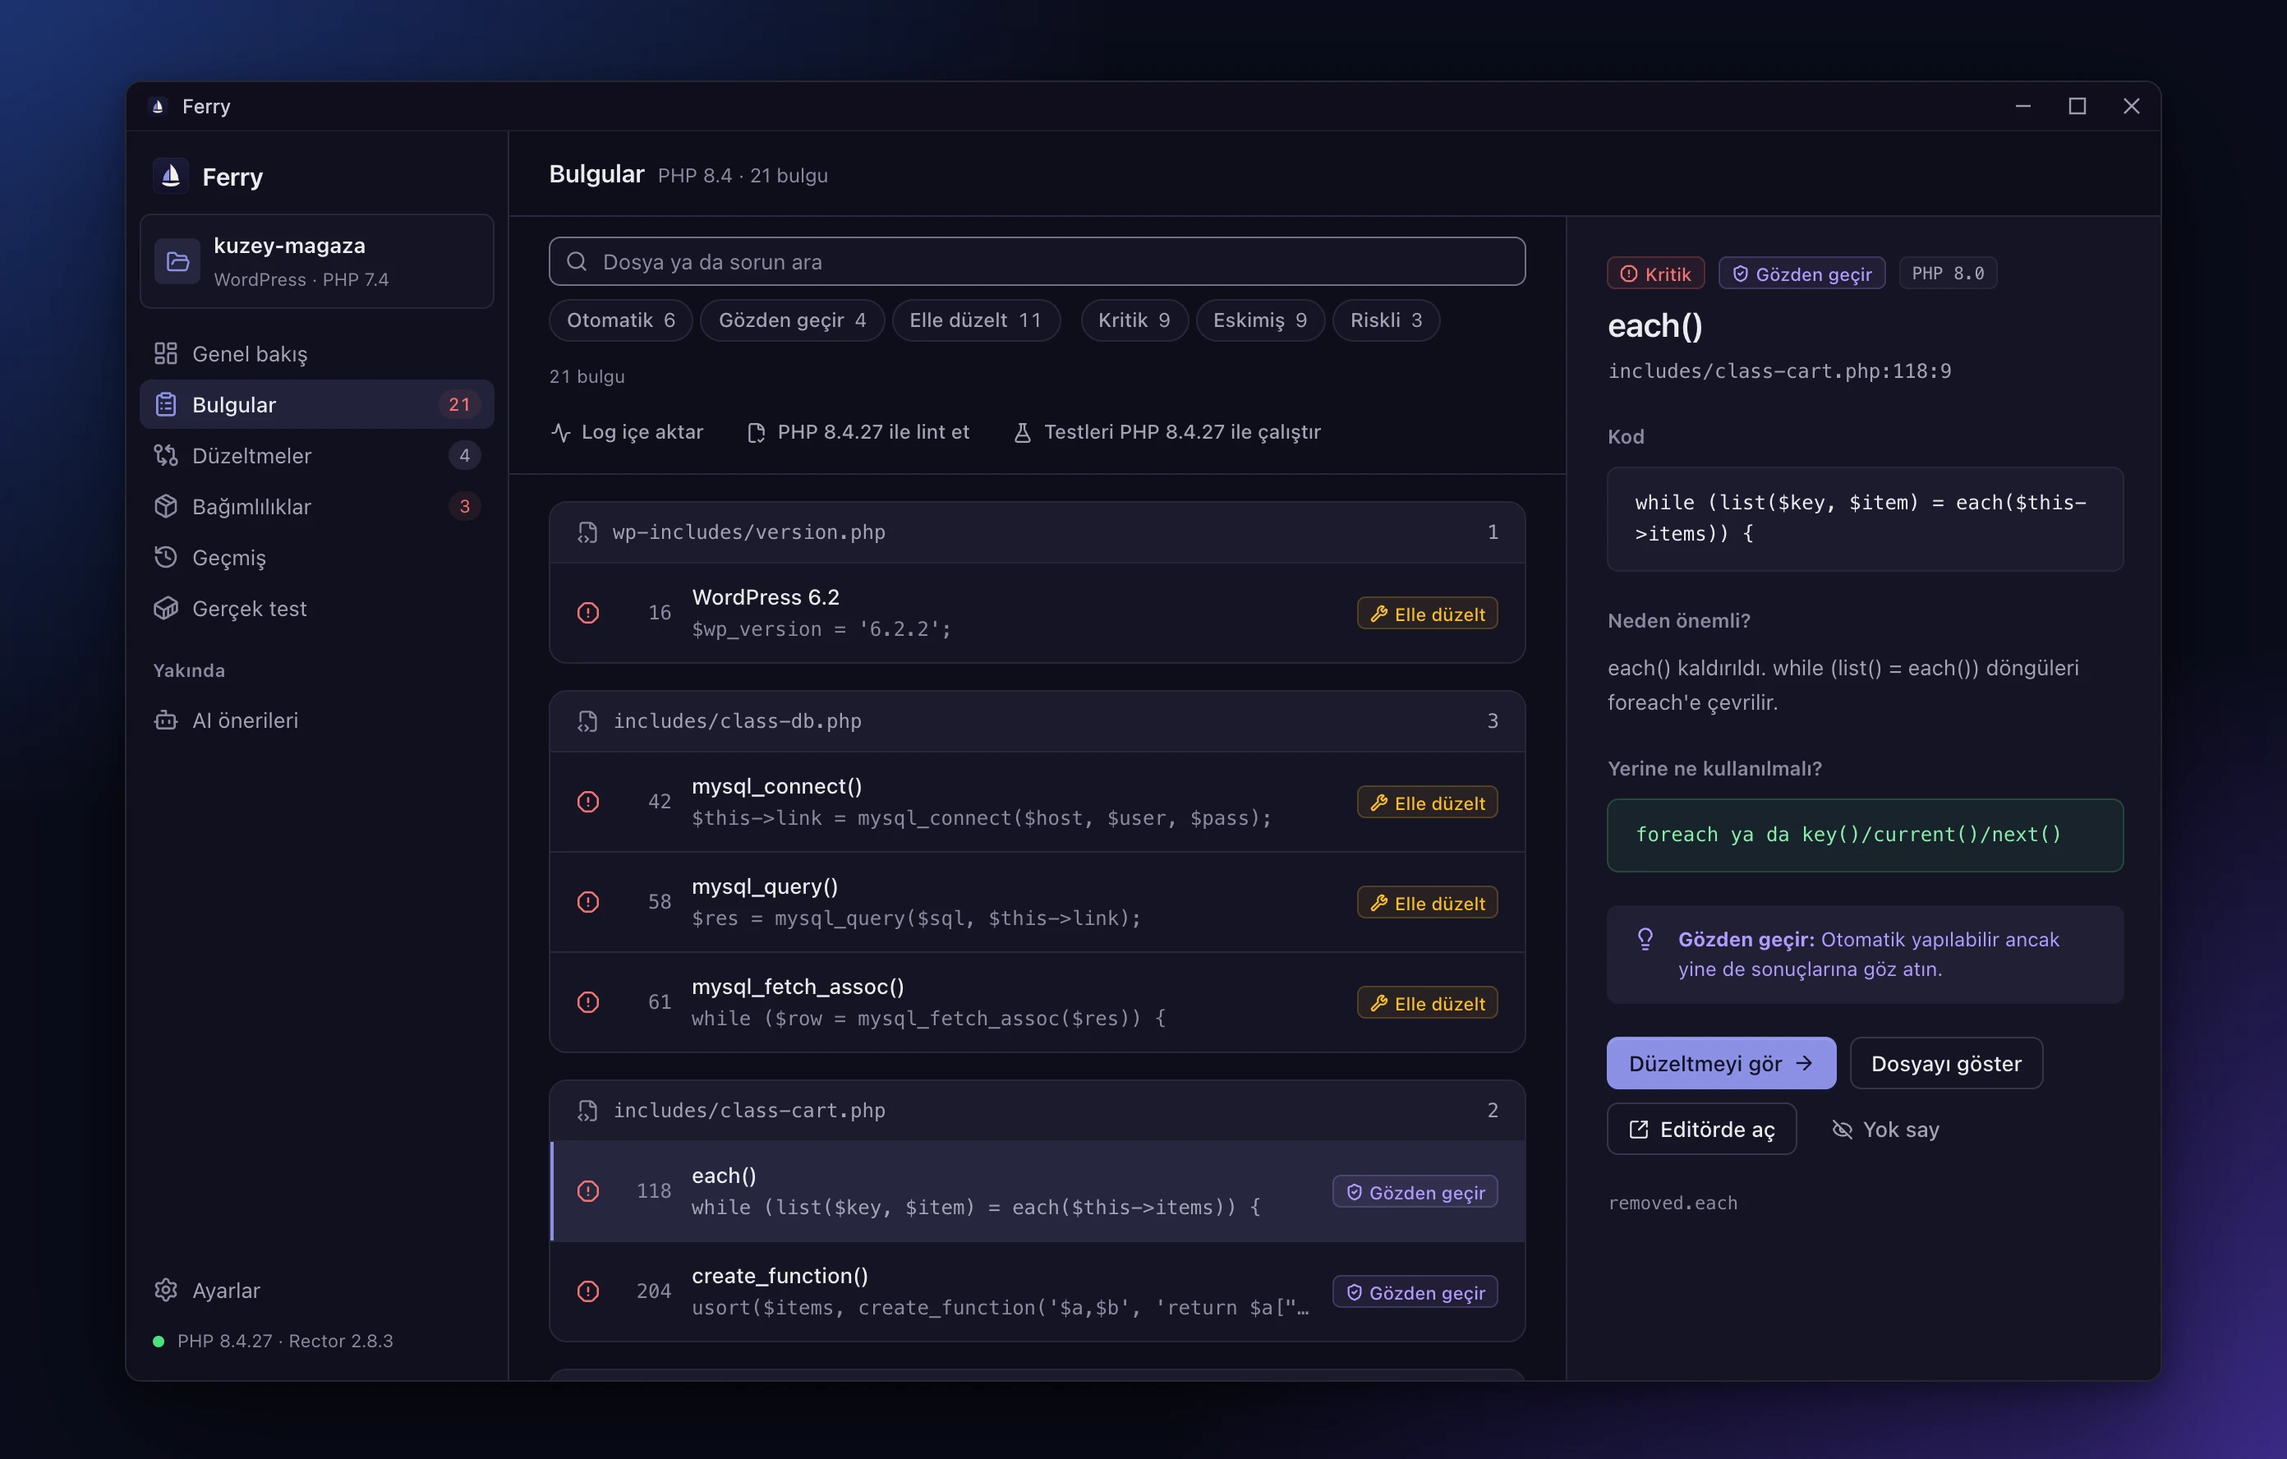
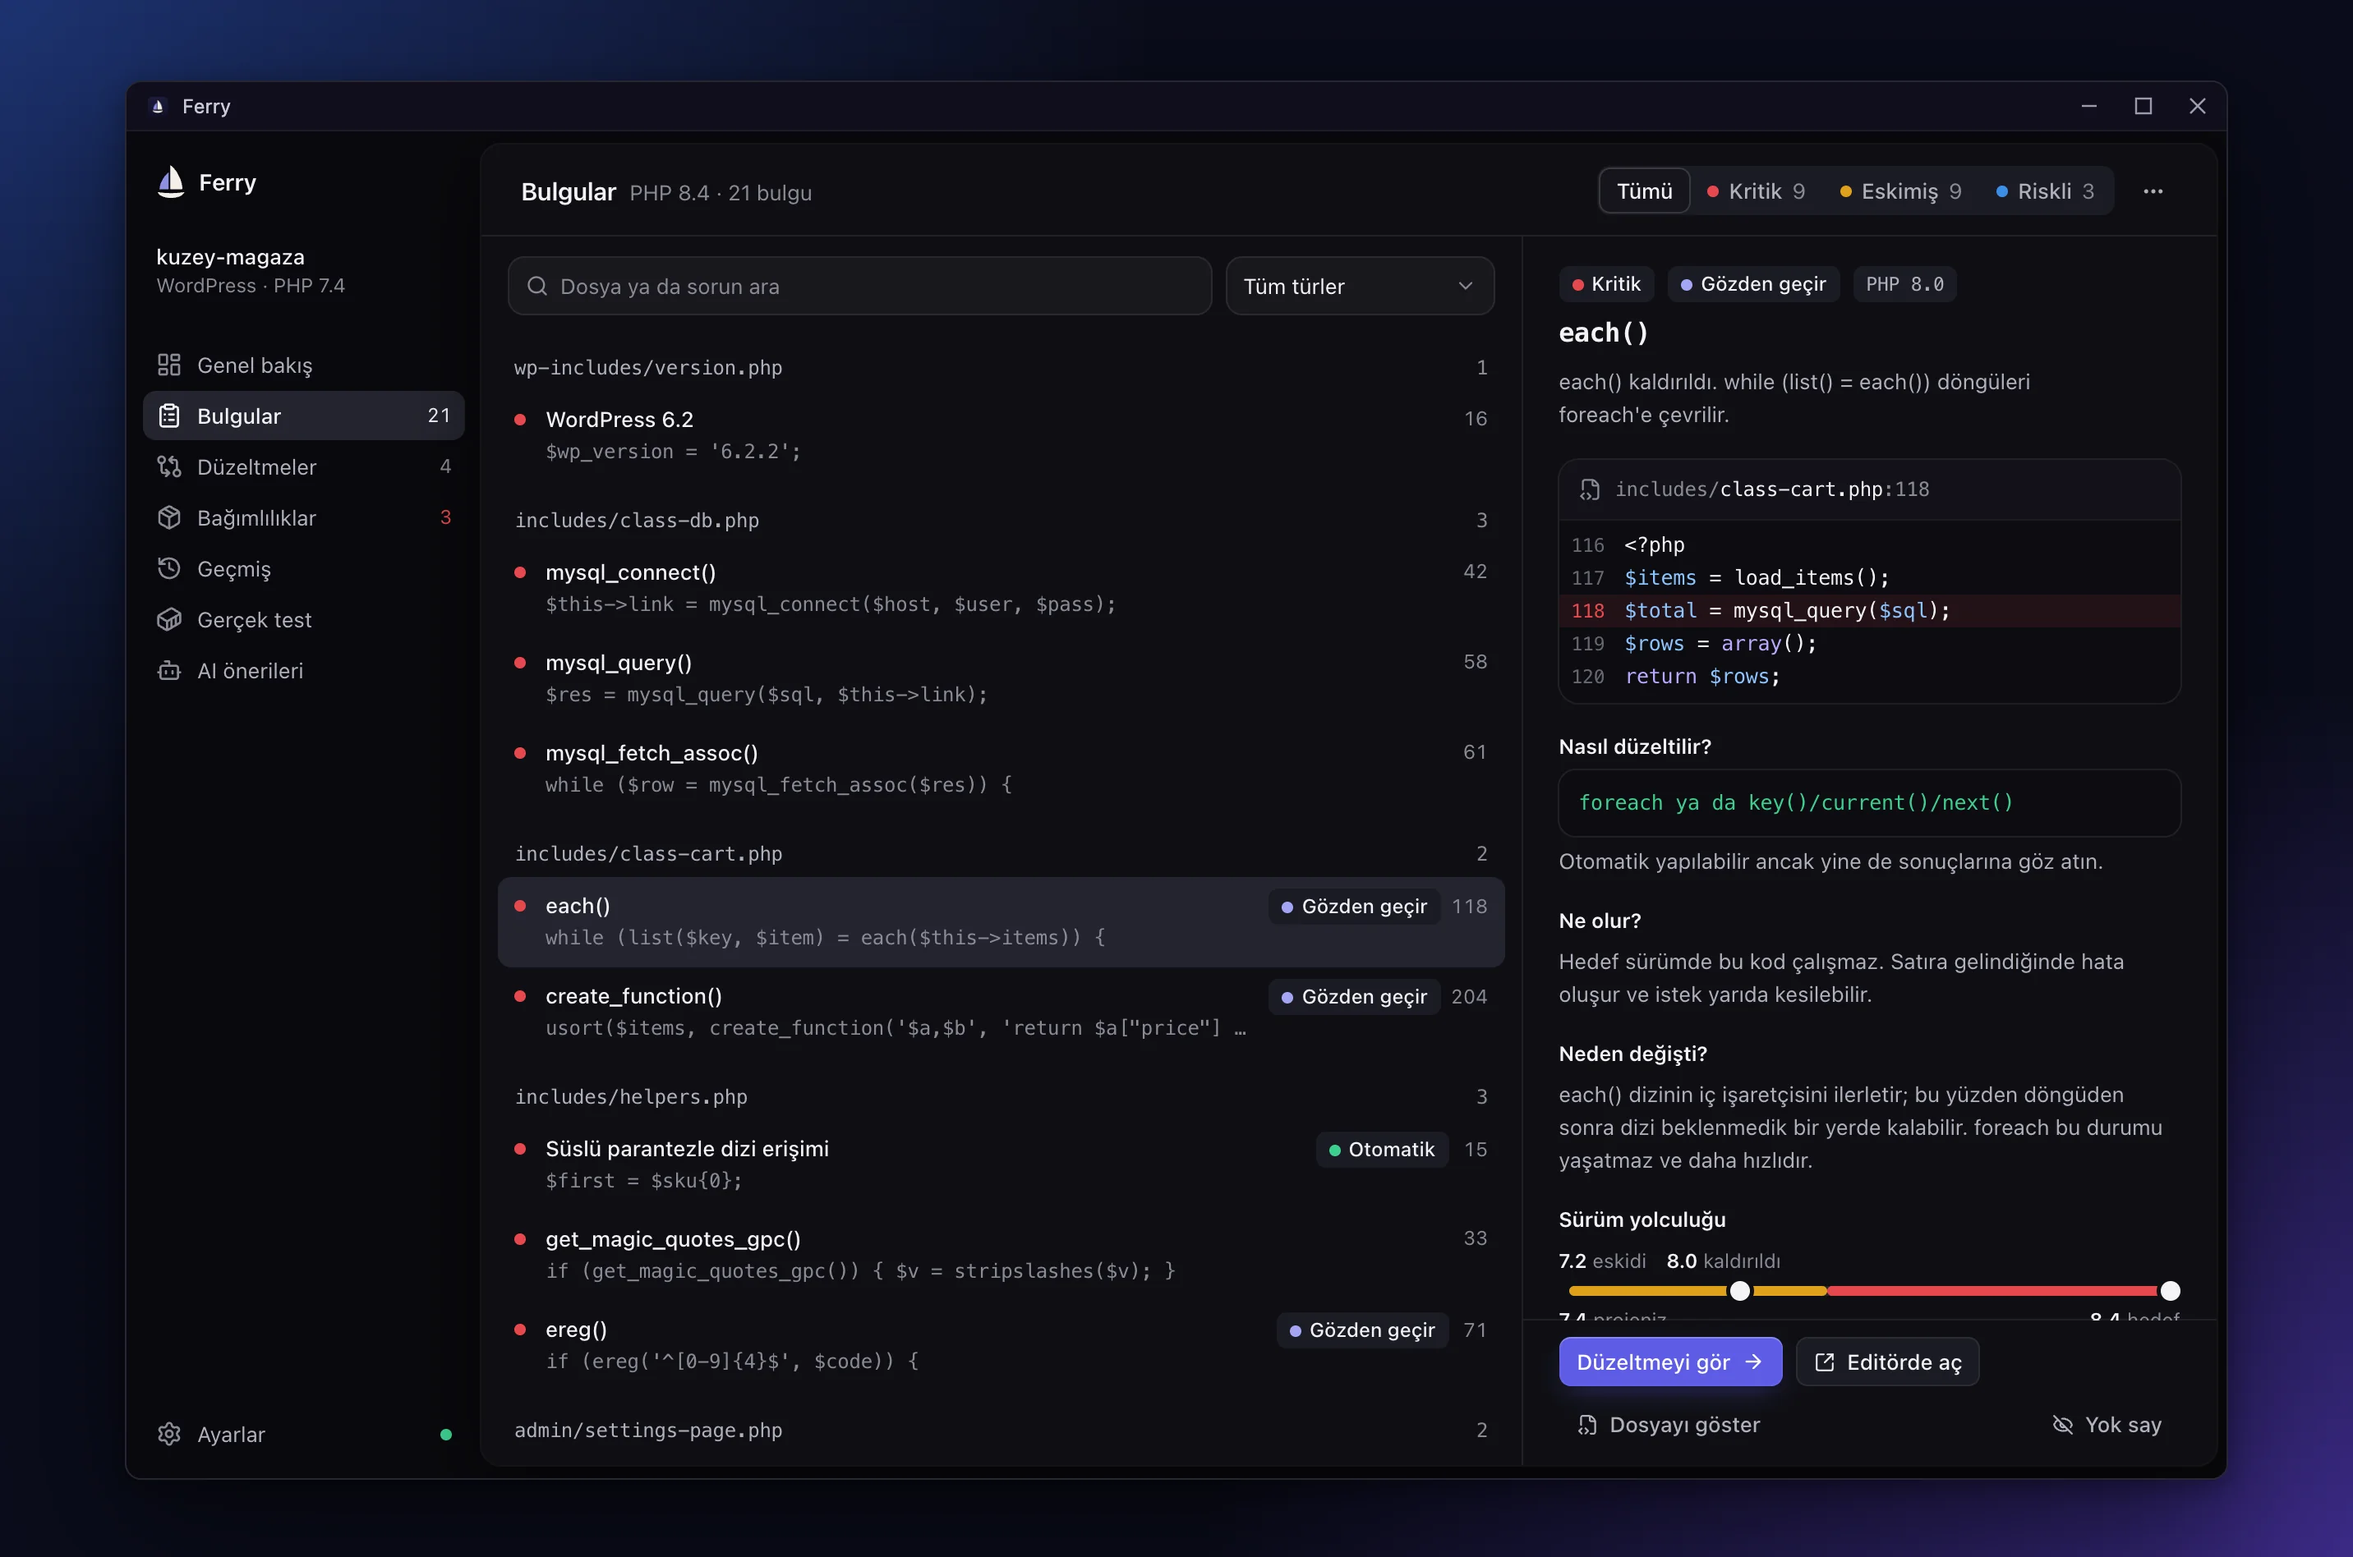
Refresh the README screenshots for the new design
All ten images now show the new screens at the default window size, and
their descriptions, the History section and the name of the undo action
follow. The screenshot script is updated to match. The shots also showed
sections of the Overview side column overlapping on short windows, so
that column now scrolls instead.

diff --git a/src/styles/app.css b/src/styles/app.css
@@ -2898,7 +2898,7 @@ button.menu__item:focus-visible {
 }
 
 .map-rail > .slot {
-  flex: 1;
+  flex: 1 0 auto;
   display: flex;
   flex-direction: column;
   justify-content: center;

diff --git a/README.tr.md b/README.tr.md
@@ -12,7 +12,7 @@ Ferry, macOS, Windows ve Linux'ta çalışan bir masaüstü uygulamasıdır. PHP
 
 [Özellikler](#özellikler) · [Kurulum](#kurulum) · [Gizlilik](#gizlilik) · [Nasıl çalışır](#nasıl-çalışır) · [Kaynaktan derleme](#kaynaktan-derleme) · [English](README.md)
 
-![PHP 7.4'ten 8.4'e geçecek bir WordPress projesi için Ferry genel bakış ekranı: 39 puanlık hazırlık skoru ve geçişi hâlâ engelleyenler, otomatik, gözden geçirilecek ve elle yapılacak düzeltmelerin dağılımı ve Düzeltmeler sayfasından kurucu parametrelerini açıkça nullable yapan bir fark](assets/readme/hero-tr.webp)
+![PHP 7.4'ten 8.4'e geçecek bir WordPress projesi için Ferry genel bakış ekranı: 39 puanlık hazırlık skoru, sorunların yarısının dört dosyada olduğunu söyleyen başlık, önem derecesine göre sayılar, en sık çıkan sorunlar, sıradaki adımlar ve etkilenen her dosya için bir kutu gösteren proje haritası](assets/readme/hero-tr.webp)
 
 - **Sorunları kullanıcılarınızdan önce görün.** PHP 7.0 ile 8.5 arasında kaldırılan ya da değişen kod; dosyası, satırı ve neden önemli olduğuyla listelenir. Taramanın neyi bulup neyi bulamayacağını [docs/COVERAGE.md](docs/COVERAGE.md) gösterir.
 - **Siz onaylamadan hiçbir şey değişmez.** Rector yalnızca deneme modunda çalışır. Her değişikliği satır satır inceler, yalnızca seçtiğiniz dosyaları uygularsınız.
@@ -53,7 +53,7 @@ Bakımını sizin yapmadığınız framework kodu kendiliğinden atlanır: WordP
 
 **Bulgular** sayfası her sorunu dosyasına göre gruplar; satırını, kodunu ve düzeltme türünü gösterir. Dosyalarda ve sorunlarda arama yapabilir, düzeltme türüne ya da önem derecesine göre süzebilir ve kaç bulgunun eşleştiğini görebilirsiniz. Genel bakışta seçtiğiniz bir kural kaldırılabilir bir süzgeç olarak görünür; **Filtreleri temizle** hepsini sıfırlar. Sayfa değiştirdiğinizde süzgeçler korunur.
 
-![Dosyalara göre gruplanmış bulgular, düzeltme türü ve önem derecesi süzgeçleri, çalışma anı kontrolleri ve bir each() bulgusunun ayrıntıları: kod, neden önemli olduğu, yerine ne kullanılacağı ve düzeltme türü](assets/readme/findings-tr.webp)
+![Dosyalara göre gruplanmış bulgular, önem derecesi süzgeçleri ve arama kutusu, bir each() bulgusunun ayrıntıları: çevresindeki kod, nasıl düzeltileceği ve düzeltilmezse ne olacağı](assets/readme/findings-tr.webp)
 
 Bir bulguyu seçtiğinizde şunları görürsünüz:
 
@@ -117,7 +117,7 @@ Ferry, Rector'ın tek başına çözemediği durumları da ele alır. Örneğin 
 
 Projenin kendisinin istediği `symfony/polyfill-php80` ya da `paragonie/random_compat` gibi polyfill'lere, hedef PHP eklediklerini zaten içerdiğinde bir not düşülür.
 
-![PHP 8.4 ile uyumsuz üç paket, projenin PHP kısıtı ve her paketin sürümü, PHP gereksinimi ve durumunu gösteren Bağımlılıklar sayfası](assets/readme/dependencies-tr.webp)
+![PHP 8.4 ile uyumsuz üç paket, projenin PHP kısıtı, hepsini güncelleyen tek komut ve her paketin sürümü, PHP gereksinimi ve durumunu gösteren Bağımlılıklar sayfası](assets/readme/dependencies-tr.webp)
 
 Her paket **Uyumlu**, **Uyumsuz** ya da **Belirsiz** (paket bir PHP gereksinimi bildirmiyorsa ya da Ferry bunu okuyamıyorsa) olarak işaretlenir; uyumsuz paketler listenin başında yer alır. Engel yokken bazı paketler belirsizse sayfa her şeyi uyumlu saymaz, bunu ayrıca belirtir. Geliştirme paketleri etiketlidir; **Sadece üretim** seçeneği onları gizler. Listenin üstündeki uyarı, geçişi engelleyen paketleri tek tek adıyla içeren, kopyalamaya hazır bir `composer update` komutu verir.
 
@@ -131,12 +131,12 @@ WordPress projelerinde **WordPress eklentileri ve temaları** her eklentiyi ve t
 
 ### Her şeyi Geçmiş'ten geri alın
 
-Ferry her uygulamadan önce değiştireceği dosyaları yedekler. **Geçmiş** sayfası her uygulamayı zamanı ve dosya sayısıyla listeler.
+Ferry her uygulamadan önce değiştireceği dosyaları yedekler. **Geçmiş** sayfası hazırlık puanını ve önem derecesine göre bulguları taramalar boyunca grafikte gösterir, düzeltmelerin uygulandığı yerleri işaretler; her taramayı, uygulamayı ve kontrolü zaman çizelgesinde listeler. Aynı sayılar tablo olarak da açılır.
 
-![İncelemek için açılmış bir Geçmiş kaydı: solda değişen dosyalar, sağda seçili dosyanın farkı ve kuralları, altta Geri yükle düğmesi](assets/readme/history-tr.webp)
+![Taramalar boyunca yükselen hazırlık puanı, her tarama için önem derecesine göre yığılmış çubuklar, uygulanan düzeltmelerin işaretleri, altta zaman çizelgesi ve yedekler gösteren Geçmiş sayfası](assets/readme/history-tr.webp)
 
 - **İncele**, her uygulamanın neyi değiştirdiğini dosya dosya ve her değişikliğin ardındaki kurallarla birlikte gösterir.
-- **Geri yükle**, o uygulamadan önceki halleriyle bütün dosyaları geri getirir. Bunlardan birini sonradan düzenlediyseniz Ferry önce o dosyaları listeler ve şu anki içeriklerini Geçmiş'e yeni bir kayıt olarak yedekler; onayladıktan sonra değişen bir dosyanın üzerine ise yazmaz.
+- **Geri al**, o uygulamadan önceki halleriyle bütün dosyaları geri getirir. Bunlardan birini sonradan düzenlediyseniz Ferry önce o dosyaları listeler ve şu anki içeriklerini Geçmiş'e yeni bir kayıt olarak yedekler; onayladıktan sonra değişen bir dosyanın üzerine ise yazmaz.
 - **Ayarlar**'daki **Saklanacak yedek** seçeneği her projede tutulacak yedek sayısını sınırlar (10, 30 ya da 100). Varsayılanı sınırsızdır.
 - Bir uygulama yarıda kalırsa Ferry dosyaları kendiliğinden geri alır. Bu da başarısız olursa yedek Geçmiş'te kalır; oradan kendiniz geri yükleyebilirsiniz.
 

diff --git a/README.md b/README.md
@@ -12,7 +12,7 @@ A desktop app for macOS, Windows and Linux that scans your PHP code, shows what 
 
 [Features](#features) · [Install](#install) · [Privacy](#privacy) · [How it works](#how-it-works) · [Build from source](#build-from-source) · [Türkçe](README.tr.md)
 
-![The Ferry overview for a WordPress project moving from PHP 7.4 to 8.4: a readiness score of 39 with what still blocks the upgrade, the split into automatic, review and manual fixes, and a diff from the Fixes page making constructor parameters explicitly nullable](assets/readme/hero-en.webp)
+![The Ferry overview for a WordPress project moving from PHP 7.4 to 8.4: a readiness score of 39, a headline saying half the problems are in four files, counts by severity, the most common issues, the next steps, and a map of the project with a tile for each affected file](assets/readme/hero-en.webp)
 
 - **See the problems before your users do.** Code that was removed or changed between PHP 7.0 and 8.5 is listed with its file, line, and the reason it matters. [docs/COVERAGE.md](docs/COVERAGE.md) shows what a scan can and can't find.
 - **Nothing changes without your approval.** Rector runs in dry-run mode only. You review each change line by line and apply only the files you pick.
@@ -53,7 +53,7 @@ After the second scan, **Since the last scan** shows how many findings were reso
 
 The **Findings** page lists every issue grouped by file, with the line, the code, and its fix type. Search files and issues, filter by fix type or severity, and see how many findings match. A rule picked on the overview shows up as a filter you can remove, and **Clear filters** resets everything. Filters stay put when you switch pages.
 
-![Findings page with issues grouped by file, filters for fix type and severity, the runtime checks, and the details of an each() finding: the code, why it matters, what to use instead, and its fix type](assets/readme/findings-en.webp)
+![Findings page with issues grouped by file, severity filters and a search box, and the details of an each() finding: the code around it, how to fix it and what happens if you don't](assets/readme/findings-en.webp)
 
 Select a finding to see:
 
@@ -117,7 +117,7 @@ A declared requirement like `^8.0` doesn't always mean the package works on the 
 
 Polyfills the project requires itself, such as `symfony/polyfill-php80` or `paragonie/random_compat`, get a note once the target PHP includes what they add.
 
-![Dependencies page with three incompatible packages for PHP 8.4, the project's PHP constraint, and each package's version, PHP requirement and status](assets/readme/dependencies-en.webp)
+![Dependencies page with three incompatible packages for PHP 8.4, the project's PHP constraint, one command to update them, and each package's version, PHP requirement and status](assets/readme/dependencies-en.webp)
 
 Each package is marked **Compatible**, **Incompatible**, or **Unknown** (when the package declares no PHP requirement, or one Ferry can't read), with incompatible packages listed first. When nothing blocks the upgrade but some packages are unknown, the page says so instead of calling everything compatible. Development packages are labeled, and **Production only** hides them. The warning above the list gives a ready-to-copy `composer update` command naming exactly the packages that block the upgrade.
 
@@ -131,12 +131,12 @@ In a WordPress project, **WordPress plugins and themes** lists every plugin and 
 
 ### Undo anything from History
 
-Before every apply, Ferry backs up the files it is about to change. The **History** page lists every apply with its time and number of files.
+Before every apply, Ferry backs up the files it is about to change. The **History** page charts the readiness score and findings by severity across scans, marks where fixes were applied, and lists every scan, apply and check on a timeline, with a table view of the same numbers.
 
-![A History entry opened for review: the changed files on the left, the diff and rules of the selected file on the right, and the Restore button](assets/readme/history-en.webp)
+![History page with the readiness score rising across scans, stacked bars of findings by severity for each scan, markers for applied fixes, and the timeline and backups below](assets/readme/history-en.webp)
 
 - **Review** shows exactly what each apply changed, file by file, with the rules behind each change.
-- **Restore** puts every file back as it was before that apply. If you edited any of them since, Ferry lists them first, backs up their current content as a new History entry, and refuses to overwrite a file that changes after you confirmed.
+- **Undo** puts every file back as it was before that apply. If you edited any of them since, Ferry lists them first, backs up their current content as a new History entry, and refuses to overwrite a file that changes after you confirmed.
 - **Backups to keep** in **Settings** limits how many backups each project keeps (10, 30 or 100). It is unlimited by default.
 - If an apply fails partway, Ferry rolls the files back on its own. If even that fails, the backup stays in History so you can restore it yourself.
 
